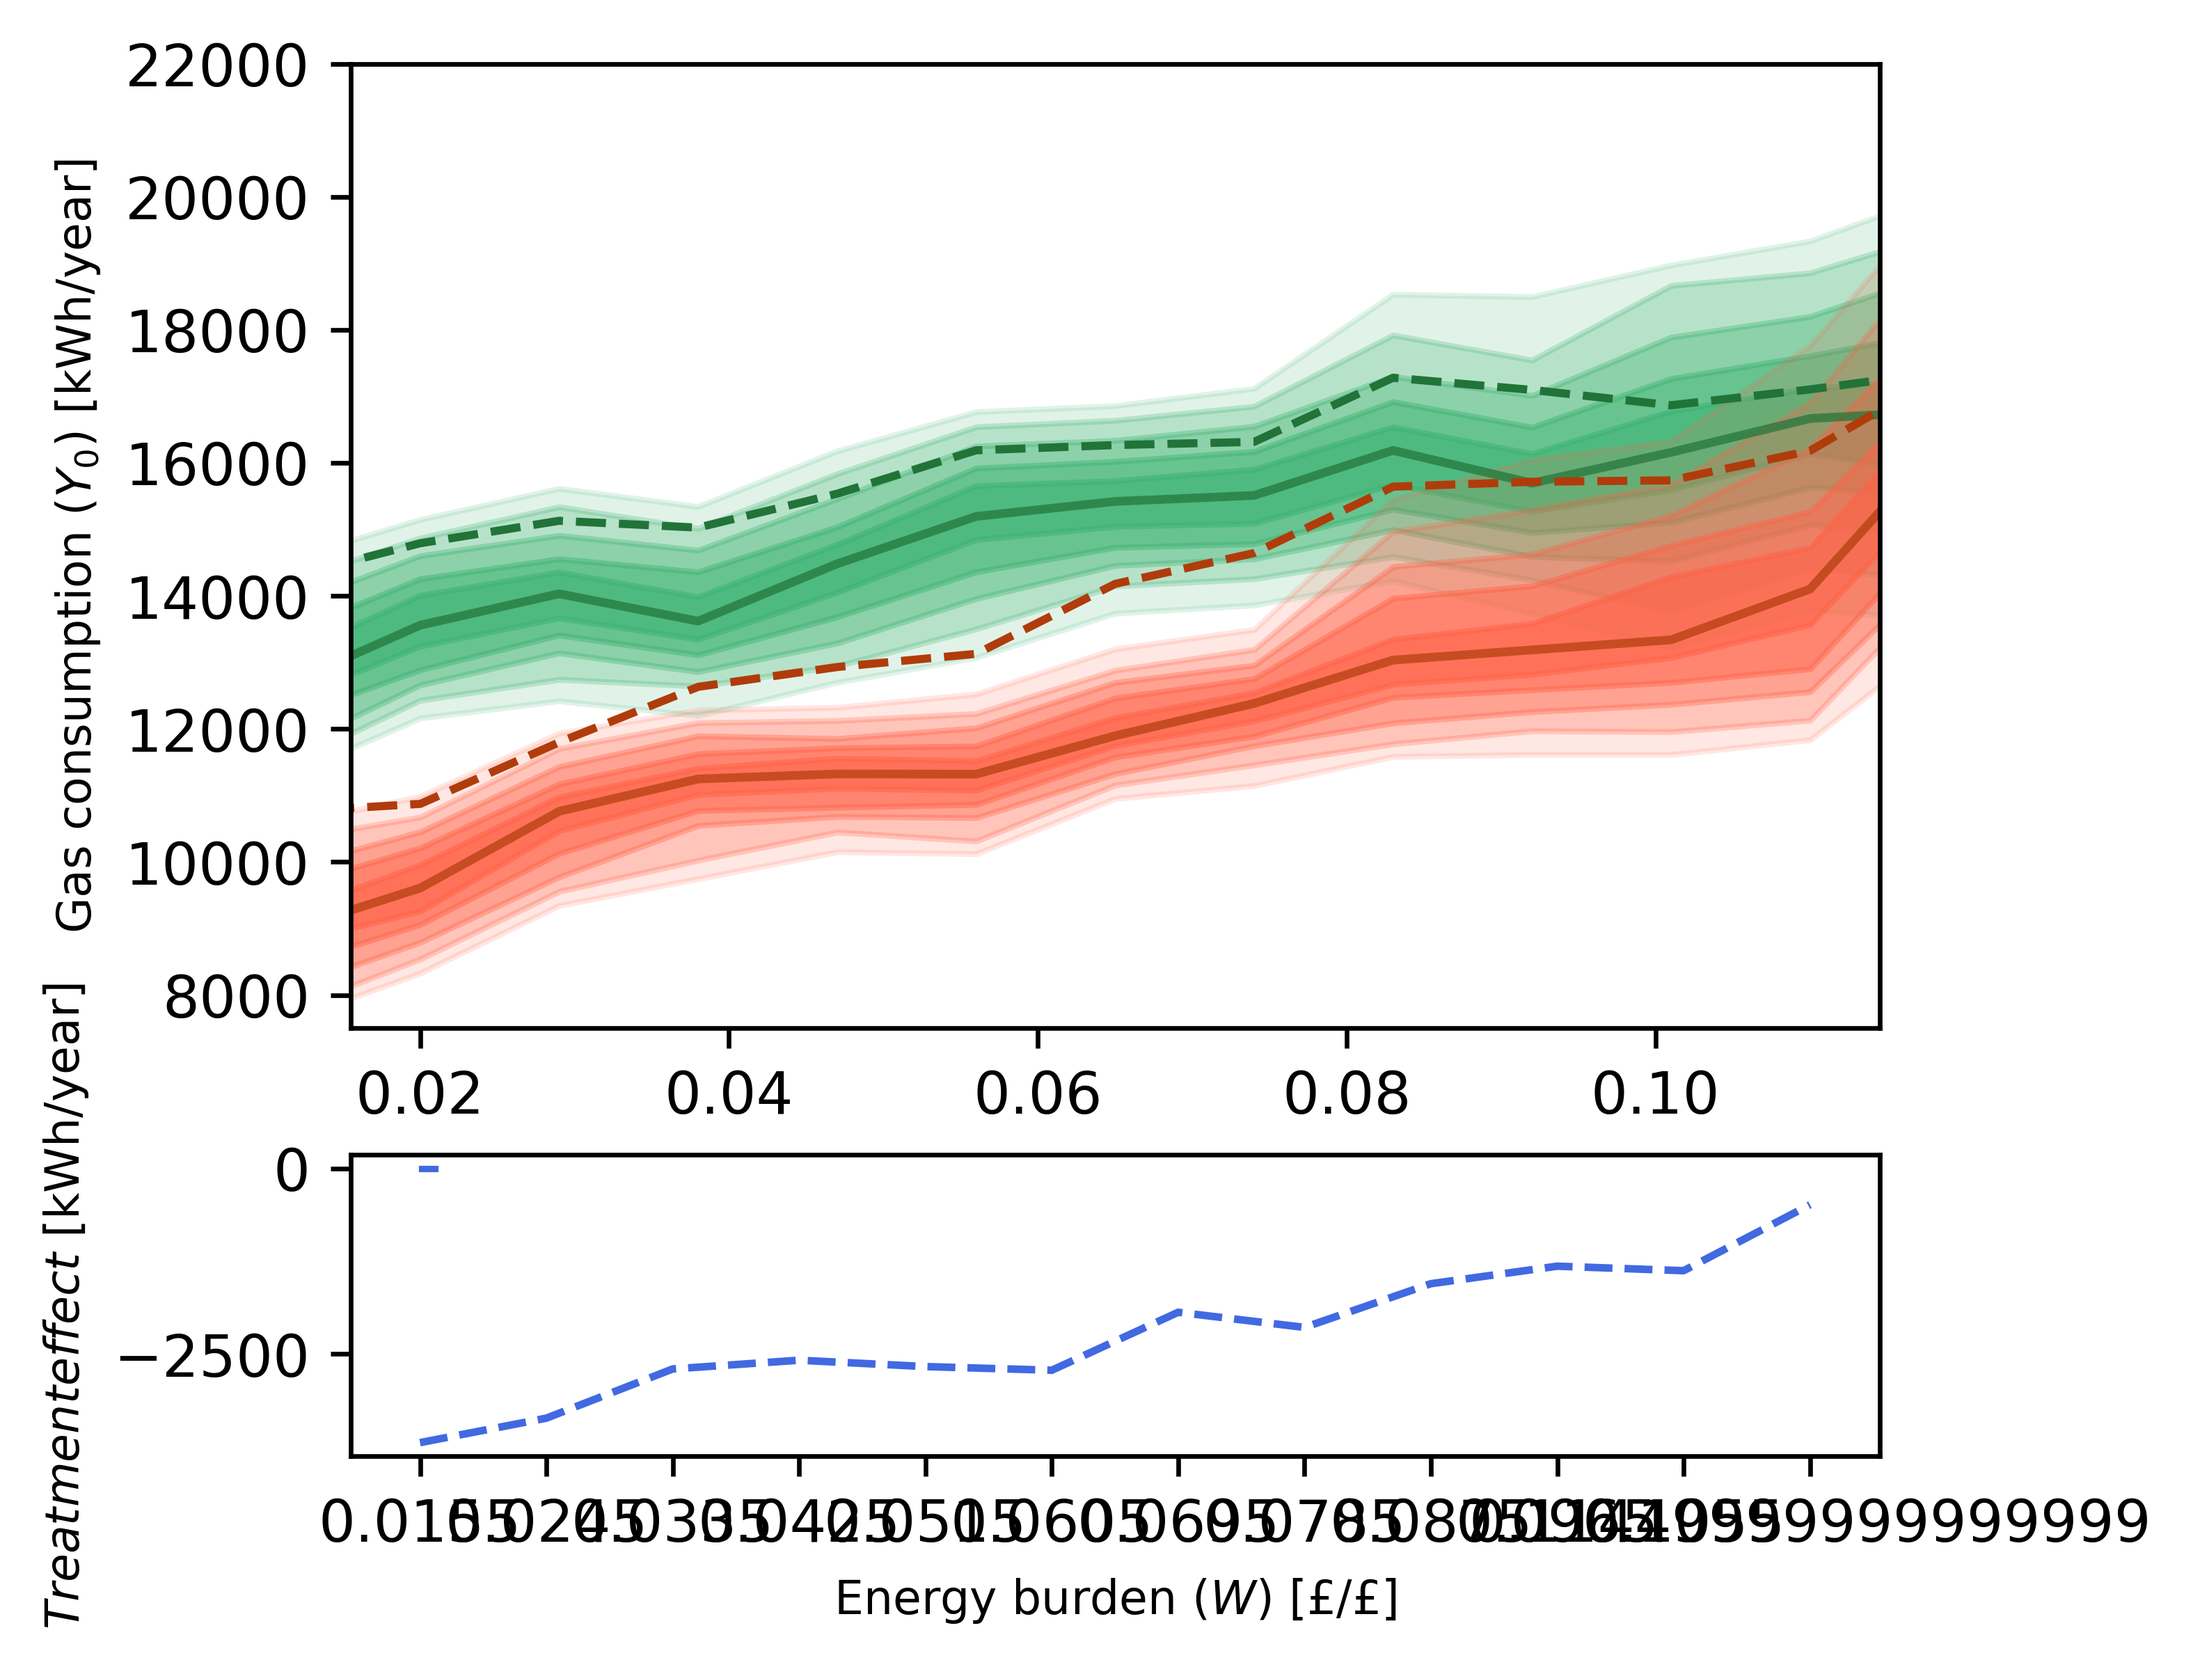
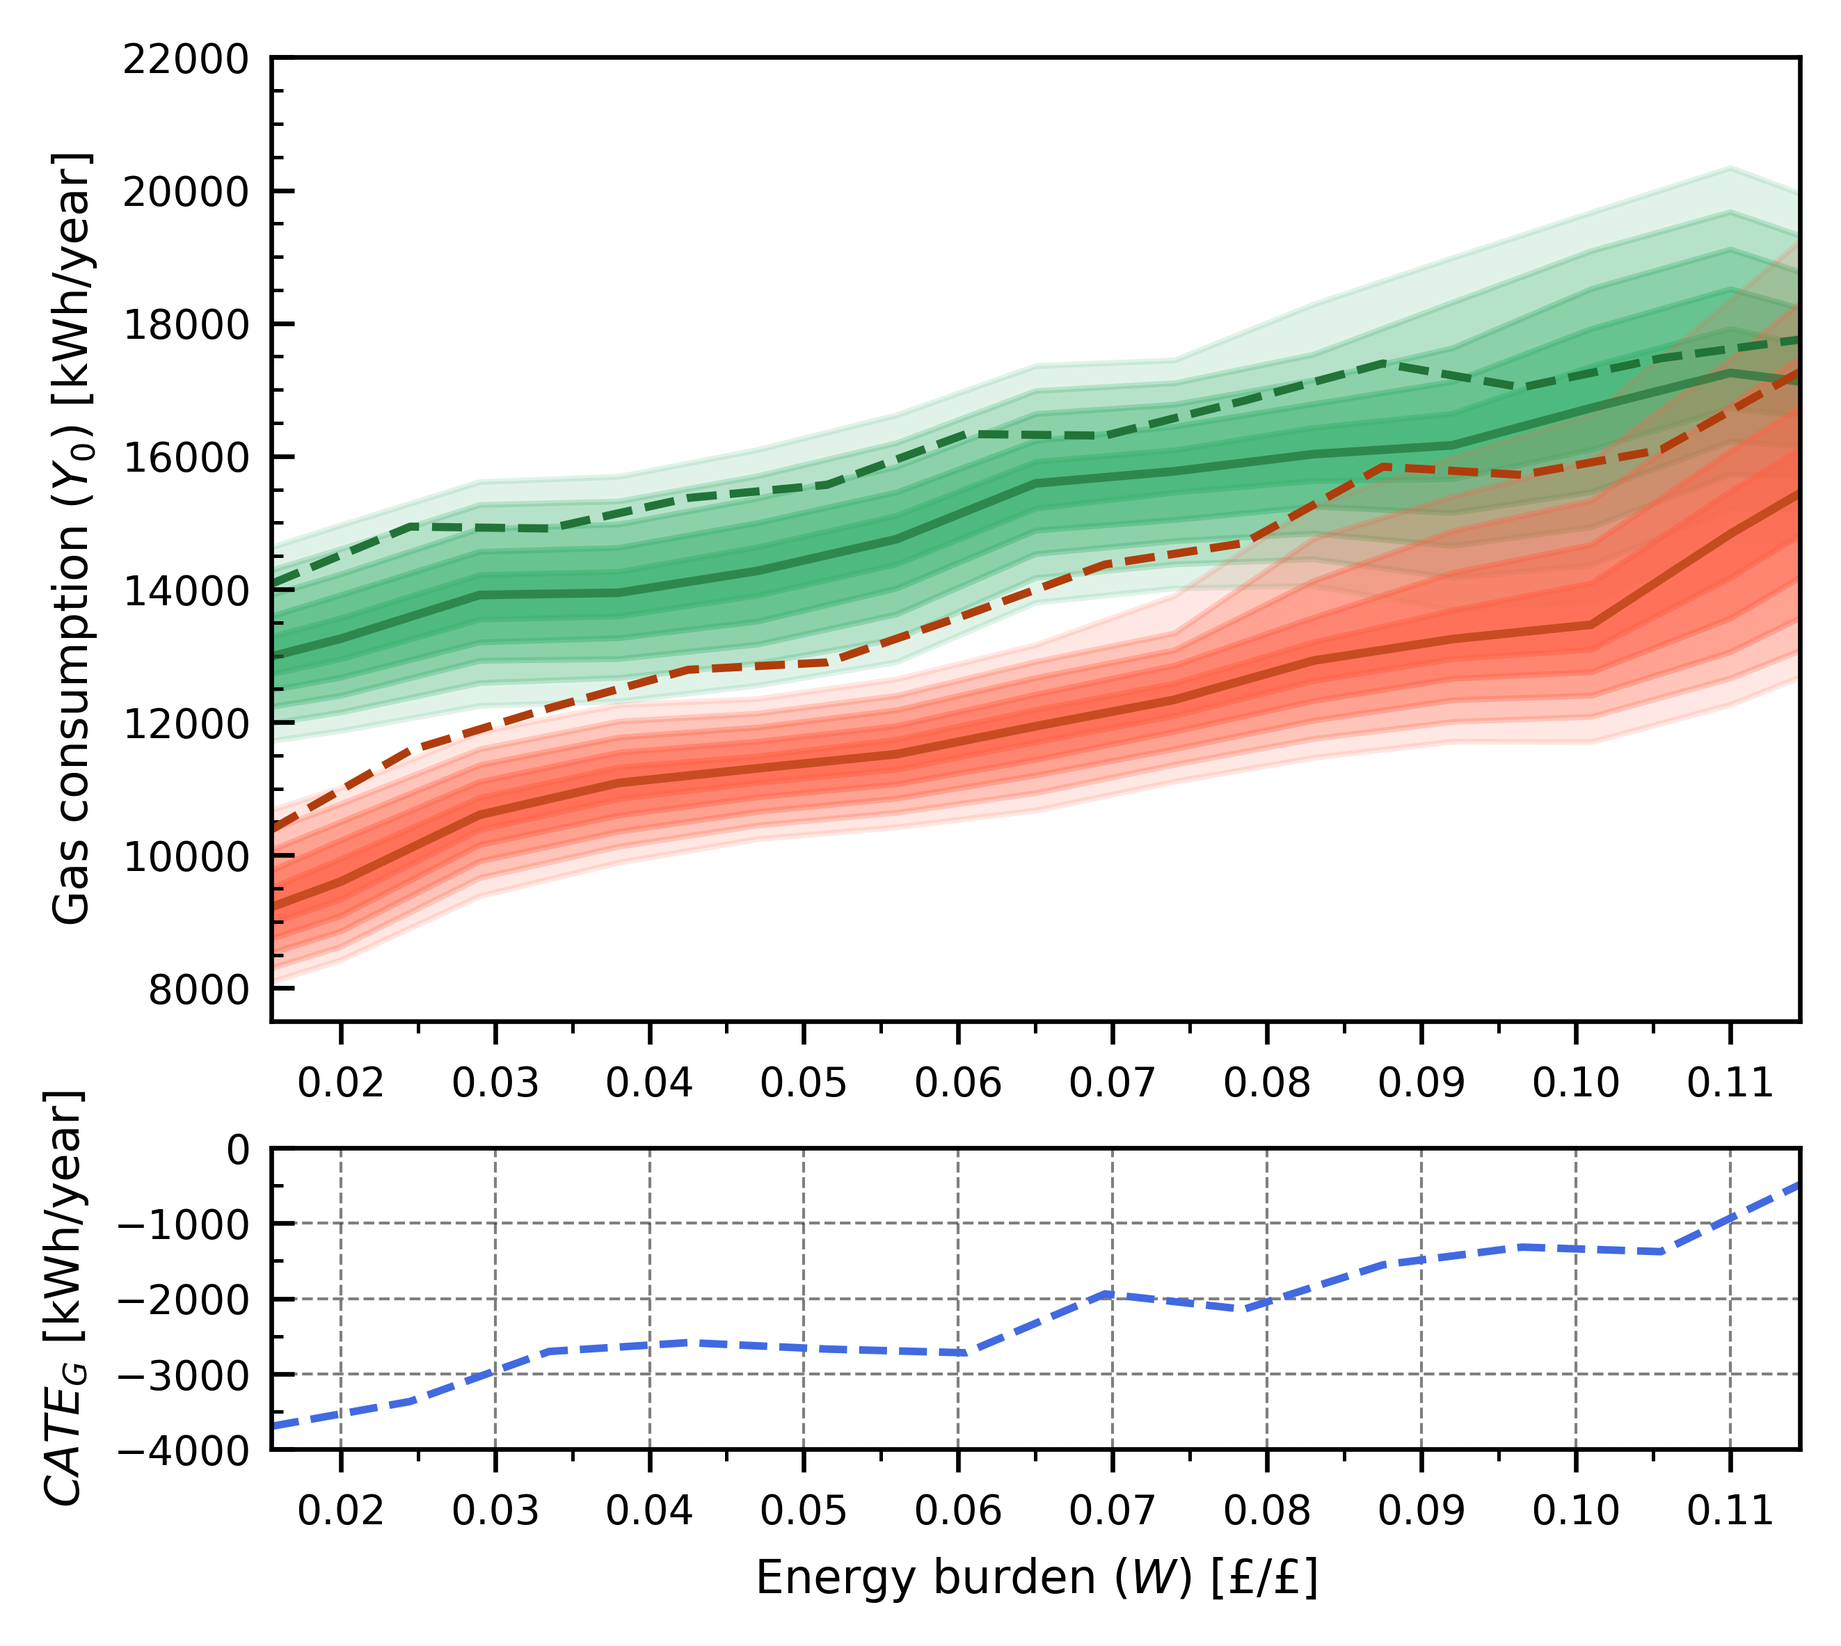
nc

diff --git a/Plotter.py b/Plotter.py
@@ -140,12 +140,21 @@ class Plotter():
         ax1.fill_between(percentiles['W_center'], percentiles['q46'], percentiles['q54'], alpha=0.45, label='46-54%', color='#3CB371')
         ax1.fill_between(percentiles['W_center'], percentiles['q48'], percentiles['q52'], alpha=0.55, label='48-52%', color='#3CB371')
         ax1.plot(percentiles['W_center'], percentiles['q50'], color='#217338', label='Median', linestyle='-', linewidth=1.5, alpha=0.7)
-        ax1.plot(percentiles['W_center'], means['Y_0'], color='#217338', label=r'$E(Y_0 \mid do(X=false), W)$', linestyle='--', linewidth=1.4)
+        ax1.plot(np.asarray(w_values, dtype=float), list_exp_Y0_given_doXx_1_Ww_1, color='#217338', label=r'$E(Y_0 \mid do(X=false), W)$', linestyle='--', linewidth=1.4)
         median_doX_1 = percentiles['q50']
 
         ax1.set_xlabel('')
         ax1.set_ylabel(r'Gas consumption $(Y_0)$ [kWh/year]', fontsize=8)
+        plt.rcParams["font.family"] = "Arial"
+        ax1.minorticks_on()
+        ax1.xaxis.set_major_locator(plt.MultipleLocator(0.01))
+        ax1.xaxis.set_minor_locator(plt.MultipleLocator(0.005))
+        ax1.tick_params(axis='x', which='major', direction='out', length=4, labelsize=7)
+        ax1.tick_params(axis='x', which='minor', direction='out', length=2)
+        ax1.tick_params(axis='y', which='major', direction='in', length=4, labelsize=7)
+        ax1.tick_params(axis='y', which='minor', direction='in', length=2)
 
+        #ax1.set_xticklabels([]) 
 
         samples_df, percentiles, means = self._generate_points_for_CATE(w_values=w_values, list_distribs_doX_given_W=list_distribs_doXx_2)
 
@@ -156,7 +165,7 @@ class Plotter():
         ax1.fill_between(percentiles['W_center'], percentiles['q46'], percentiles['q54'], alpha=0.45, label='46-54%', color='#FF6347')
         ax1.fill_between(percentiles['W_center'], percentiles['q48'], percentiles['q52'], alpha=0.55, label='48-52%', color='#FF6347')
         ax1.plot(percentiles['W_center'], percentiles['q50'], color='#b03c0b', label='Median', linestyle='-', linewidth=1.5, alpha=0.7)
-        ax1.plot(percentiles['W_center'], means['Y_0'], color='#b03c0b', label=r'$E(Y_0 \mid do(X=true), W)$', linestyle='--', linewidth=1.4)
+        ax1.plot(np.asarray(w_values, dtype=float), list_exp_Y0_given_doXx_2_Ww_1, color='#b03c0b', label=r'$E(Y_0 \mid do(X=true), W)$', linestyle='--', linewidth=1.4)
         median_doX_2 = percentiles['q50']
 
         ax1.set_xlim(w_values[0], w_values[-1])
@@ -164,20 +173,31 @@ class Plotter():
         #-----------------------------------------------------------------------------
 
         CATE_vals = np.array(list_exp_Y0_given_doXx_2_Ww_1) - np.array(list_exp_Y0_given_doXx_1_Ww_1)
-        CMTE_vals = np.array(median_doX_2) - np.array(median_doX_2) # Conditional Median Treatment Effect
+        #CMTE_vals = np.array(median_doX_2) - np.array(median_doX_1) # Conditional Median Treatment Effect
 
-        ax2.plot(np.array(w_values), CATE_vals, color='royalblue', label=r'$CATE_{G}$', linestyle='--', linewidth=1.3)
+        ax2.plot(np.asarray(w_values, dtype=float), CATE_vals, color='royalblue', label=r'$CATE_{G}$', linestyle='--', linewidth=1.3)
         
-        '''
-        NOTE: this below need be fixed
-        '''
-        ax2.plot(np.array(percentiles['W_center']), CMTE_vals, color='royalblue', label=r'$CMTE_{G}$', linestyle='-', linewidth=1.1)
 
+        #ax2.plot(np.array(percentiles['W_center']), CMTE_vals, color='royalblue', label=r'$CMTE_{G}$', linestyle='-', linewidth=1.1)
+  
 
-        ax2.set_ylabel(r'$Treatment effect$ [kWh/year]', fontsize=8)
+        ax2.set_ylabel(r'$CATE_{G}$ [kWh/year]', fontsize=8)
         ax2.set_xlabel(r'Energy burden $(W)$ [£/£]', fontsize=8)
+        ax2.minorticks_on()
+        ax2.xaxis.set_major_locator(plt.MultipleLocator(0.01))
+        ax2.xaxis.set_minor_locator(plt.MultipleLocator(0.005))
+        ax2.yaxis.set_major_locator(plt.MultipleLocator(1000))
+        ax2.yaxis.set_minor_locator(plt.MultipleLocator(500))
+        ax2.tick_params(axis='x', which='major', direction='out', length=4, labelsize=7)
+        ax2.tick_params(axis='x', which='minor', direction='out', length=2)
+        ax2.tick_params(axis='y', which='major', direction='in', length=4, labelsize=7)
+        ax2.tick_params(axis='y', which='minor', direction='in', length=2)
+        ax2.set_xticks([0., 0.01, 0.02, 0.03, 0.04, 0.05, 0.06, 0.07, 0.08, 0.09, 0.10, 0.11]) 
+        ax2.set_xticklabels(['0.00', '0.01', '0.02', '0.03', '0.04', '0.05', '0.06', '0.07', '0.08', '0.09', '0.10', '0.11']) 
 
-
+        ax2.grid(True, which='major', axis='both', linestyle='--', linewidth=0.5,  color='black', alpha=0.5)
+        ax2.set_xlim(w_values[0], w_values[-1])
+        ax2.set_ylim(-4000, 0)
         w = str(width_cm).replace('.', '-')
         h = str(height_cm).replace('.', '-')
         fig.savefig(f"Figures/figure_{w}_cm_by_{h}_cm_{figure_name}.png", bbox_inches="tight", dpi=600)
@@ -214,7 +234,7 @@ class Plotter():
         samples = []
         for w_value, group in long_df.groupby('W'):
             probs = group['P'] / group['P'].sum()
-            n_samples = 1000
+            n_samples = 10000
             sampled_y_bin_centers = np.random.choice(group['Y_0'], size=n_samples, p=probs)
             sampled_y = np.random.uniform(sampled_y_bin_centers - bins_width_Y_0 / 2, sampled_y_bin_centers + bins_width_Y_0 / 2)
             sampled_w = np.random.uniform(w_value - bins_width_W / 2, w_value + bins_width_W / 2, size=n_samples)
